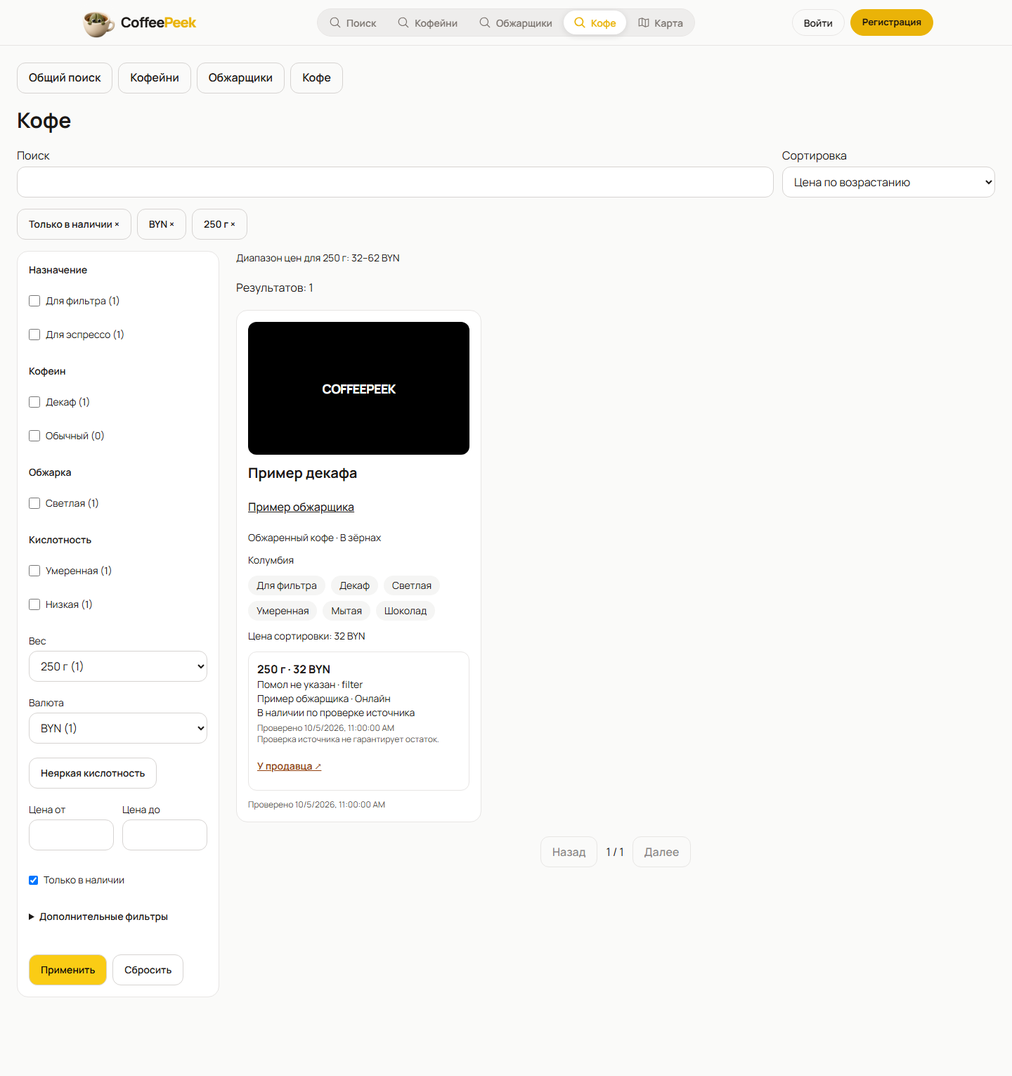
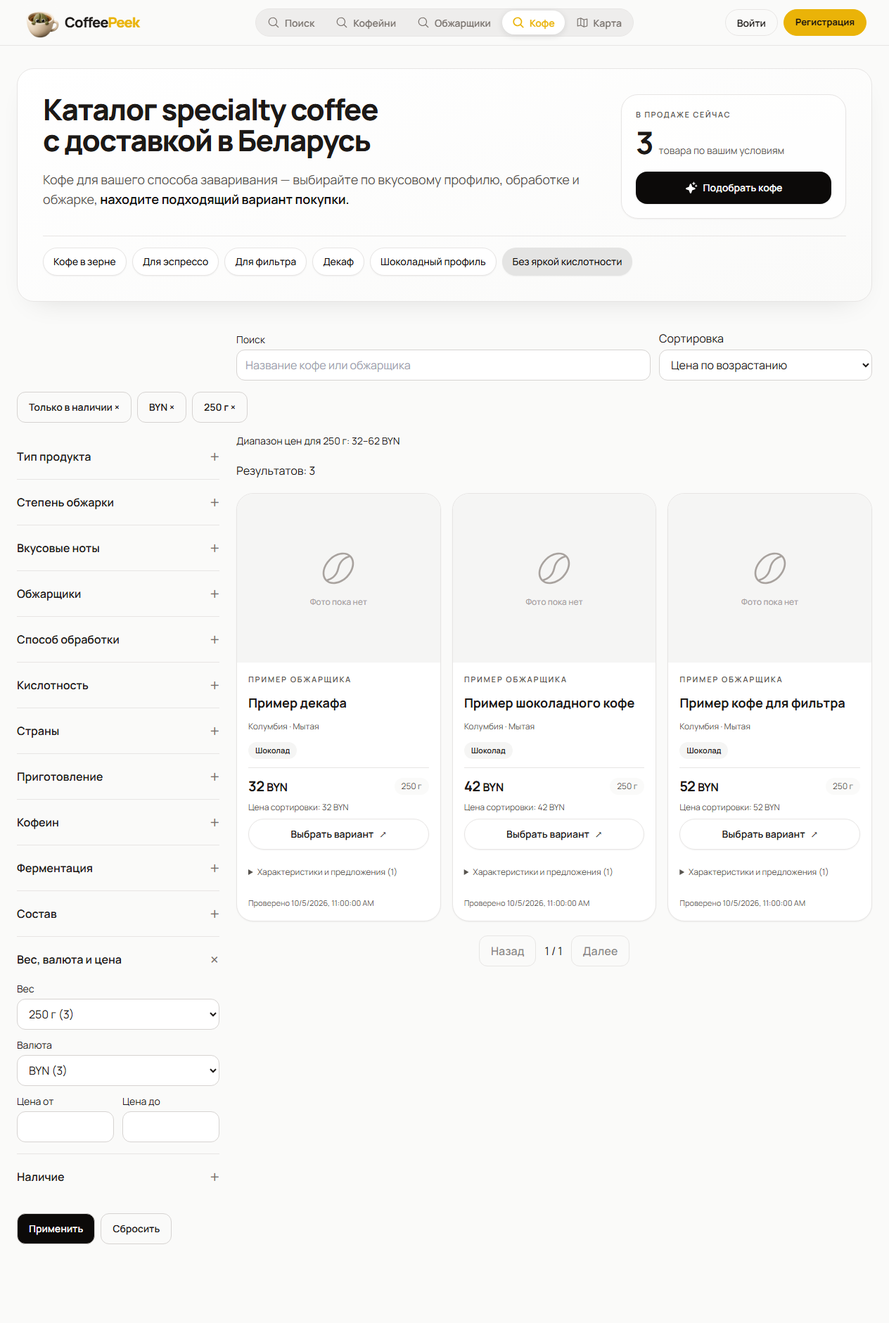
feat: refresh coffee catalog design and verify live discovery

diff --git a/coffee-peek/src/pages/CatalogSearchPage.tsx b/coffee-peek/src/pages/CatalogSearchPage.tsx
@@ -9,6 +9,7 @@ import { useUser } from '../contexts/UserContext';
 import { useRequireAuth } from '../hooks/useRequireAuth';
 import { useTheme } from '../contexts/ThemeContext';
 import { usePageTitle } from '../hooks/usePageTitle';
+import { Sparkle } from '@phosphor-icons/react';
 import { CatalogFilters, FilterChips, activeFilterCount, catalogInput } from '../components/CatalogFilters';
 import ShopCatalogFilters from '../components/ShopCatalogFilters';
 import { CoffeeCatalogCard, RoasterCatalogCard, ShopCatalogCard, CatalogPagination, catalogButton, catalogPanel } from '../components/CatalogCards';
@@ -18,6 +19,28 @@ import { useLocalCity } from '../hooks/useLocalCity';
 
 const titles = { discovery: 'Поиск кофеен и обжарщиков', shops: 'Кофейни', roasters: 'Обжарщики', coffees: 'Кофе' };
 const sortLabels: Record<string, string> = { relevance: 'По релевантности', name_asc: 'По названию', distance_asc: 'По расстоянию', rating_desc: 'По рейтингу', available_coffees_desc: 'По доступному ассортименту', price_asc: 'Цена по возрастанию', price_desc: 'Цена по убыванию', newest: 'Новые товары' };
+function CoffeeCatalogHero({ filters, total, quickFilters, onChange, onOpen }: {
+  filters: Record<string, unknown>; total?: number; quickFilters: { label: string; field: string; values: string[] | string }[];
+  onChange: (filters: Record<string, unknown>) => void; onOpen: () => void;
+}) {
+  const countLabel = ({ one: 'товар', few: 'товара', many: 'товаров', other: 'товара' } as Record<string, string>)[new Intl.PluralRules('ru').select(total ?? 0)];
+  return <section className="mb-10 rounded-3xl border border-stone-200 bg-gradient-to-br from-white to-stone-50 p-5 shadow-[0_16px_40px_-24px_rgba(0,0,0,0.16)] sm:p-8 lg:p-9 dark:border-[#3D2F28] dark:from-[#2D241F] dark:to-[#241C17]">
+    <div className="grid gap-5 sm:gap-7 lg:grid-cols-[minmax(0,1fr)_320px] lg:gap-10">
+      <div><h1 className="max-w-3xl text-[28px] font-extrabold leading-[1.04] tracking-[-0.035em] sm:text-[42px] xl:text-[46px]">Каталог specialty coffee<br className="hidden sm:block" /> с доставкой в Беларусь</h1>
+        <p className="mt-3 max-w-3xl text-sm leading-relaxed text-stone-600 sm:mt-5 sm:text-lg dark:text-stone-300">Кофе для вашего способа заваривания — выбирайте по вкусовому профилю, обработке и обжарке, <strong className="font-semibold text-stone-950 dark:text-white">находите подходящий вариант покупки.</strong></p></div>
+      <div className="self-start rounded-3xl border border-stone-200 bg-white/70 p-4 shadow-sm sm:p-5 dark:border-[#4A3D35] dark:bg-[#1A1412]/40">
+        <p className="text-[11px] font-semibold uppercase tracking-[0.14em] text-stone-600 dark:text-stone-300">{filters.availableOnly === false ? 'В каталоге сейчас' : 'В продаже сейчас'}</p>
+        <p className="mt-2 flex items-baseline gap-2"><span className="text-[36px] font-bold leading-none tracking-tight sm:text-[44px]" aria-live="polite">{total?.toLocaleString() ?? '—'}</span><span className="text-xs text-stone-600 sm:text-sm dark:text-stone-300">{countLabel} по вашим условиям</span></p>
+        <button type="button" onClick={onOpen} className="mt-3 flex min-h-11 w-full items-center justify-center gap-2 rounded-2xl bg-stone-950 px-4 py-3 text-sm font-semibold text-white shadow-sm hover:bg-stone-800 focus-visible:outline-none focus-visible:ring-2 focus-visible:ring-yellow-500 focus-visible:ring-offset-2 sm:mt-5 dark:bg-white dark:text-stone-950 dark:hover:bg-stone-200"><Sparkle size={18} weight="fill" aria-hidden="true" />Подобрать кофе</button>
+      </div>
+    </div>
+    <div className="mt-6 flex flex-wrap gap-2 border-t border-stone-200 pt-4 dark:border-[#3D2F28]">{quickFilters.map(preset => {
+      const current = filters[preset.field];
+      const selected = Array.isArray(preset.values) ? Array.isArray(current) && preset.values.length === current.length && preset.values.every(value => current.includes(value)) : current === preset.values;
+      return <button key={preset.label} type="button" aria-pressed={selected} onClick={() => onChange({ ...filters, [preset.field]: selected ? undefined : preset.values })} className={`min-h-10 rounded-full border px-3.5 py-2 text-xs shadow-sm transition-colors focus-visible:outline-none focus-visible:ring-2 focus-visible:ring-yellow-500 sm:text-sm ${selected ? 'border-stone-950 bg-stone-950 text-white dark:border-white dark:bg-white dark:text-stone-950' : 'border-stone-200 bg-white text-stone-950 hover:bg-stone-100 dark:border-[#4A3D35] dark:bg-[#2D241F] dark:text-white dark:hover:bg-[#1A1412]'}`}>{preset.label}</button>;
+    })}</div>
+  </section>;
+}
 export default function CatalogSearchPage({ kind }: { kind: CatalogKind }) {
   const [params, setParams] = useSearchParams();
   const navigate = useNavigate();
@@ -40,6 +63,7 @@ export default function CatalogSearchPage({ kind }: { kind: CatalogKind }) {
   const state = parsed.state;
   const [input, setInput] = useState(state.q);
   const dialog = useRef<HTMLDialogElement>(null);
+  const desktopFilters = useRef<HTMLElement>(null);
   const [mobileOpen, setMobileOpen] = useState(false);
   usePageTitle(titles[kind]);
   useEffect(() => { setInput(state.q); }, [state.q]);
@@ -88,22 +112,34 @@ export default function CatalogSearchPage({ kind }: { kind: CatalogKind }) {
   const filterForm = () => kind === 'shops' ? <ShopCatalogFilters filters={state.filters as ShopFilters} onApply={apply} /> : <CatalogFilters kind={kind} filters={state.filters} groups={groups} tags={tags.data} errors={errors} onApply={apply} />;
   const reset = () => update(applyCriteria(state, { filters: kind === 'coffees' ? { availableOnly: true } : {}, q: '', sort: 'name_asc' }));
   const availableSorts = kind === 'discovery' ? ['name_asc', 'relevance'] : kind === 'shops' ? ['name_asc', 'relevance', 'distance_asc', 'rating_desc'] : kind === 'roasters' ? ['name_asc', 'relevance', 'available_coffees_desc'] : ['name_asc', 'relevance', 'price_asc', 'price_desc', 'newest'];
-  const cards = (items: (CoffeeCard | RoasterCard | ShopCard)[], section: CatalogKind) => <div className="grid grid-cols-1 gap-4 md:grid-cols-2 xl:grid-cols-3">{items.map(item => section === 'coffees' ? <CoffeeCatalogCard key={item.address.slug} coffee={item as CoffeeCard} groups={dictionary.data ?? []} />
+  const cards = (items: (CoffeeCard | RoasterCard | ShopCard)[], section: CatalogKind) => <div className={`grid grid-cols-1 gap-4 md:grid-cols-2 ${section === 'coffees' ? 'min-[1180px]:grid-cols-3' : 'xl:grid-cols-3'}`}>{items.map(item => section === 'coffees' ? <CoffeeCatalogCard key={item.address.slug} coffee={item as CoffeeCard} groups={dictionary.data ?? []} />
     : section === 'roasters' ? <RoasterCatalogCard key={item.address.slug} roaster={item as RoasterCard} groups={dictionary.data ?? []} /> : <ShopCatalogCard key={item.address.slug} shop={item as ShopCard} />)}</div>;
   const rawPage = query.data && 'items' in query.data ? query.data : undefined;
   const hidden = pendingFavorites.filter(change => !change.favorite && change.kind === (kind === 'shops' ? 'coffee_shop' : 'roaster') && favorites.isFavorite(change.kind as 'coffee_shop' | 'roaster', change.address.slug, true) === false);
   const page = rawPage && state.filters.favoritesOnly && hidden.length ? { ...rawPage, items: rawPage.items.filter(item => !hidden.some(change => change.address.slug === item.address.slug)), totalItems: Math.max(0, rawPage.totalItems - hidden.length) } : rawPage;
   const discovery = query.data && 'coffeeShops' in query.data ? query.data : undefined;
-  return <main className={`mx-auto max-w-[1600px] px-4 py-6 pb-28 sm:px-6 ${theme === 'dark' ? 'text-white' : 'text-stone-900'}`}>
-    <nav className="mb-5 flex flex-wrap gap-2" aria-label="Каталоги">{[['/search', 'Общий поиск'], ['/shops', 'Кофейни'], ['/roasters', 'Обжарщики'], ['/coffees', 'Кофе']].map(([path, name]) => <Link key={path} className={catalogButton} to={path}>{name}</Link>)}{kind === 'shops' && <Link className={catalogButton} to="/dashboard?page=map">Карта</Link>}</nav>
-    <h1 className="mb-5 text-3xl font-bold">{titles[kind]}</h1>
-    <div className="mb-4 flex flex-wrap items-end gap-3"><label className="min-w-0 flex-1">Поиск<input type="search" className={catalogInput} value={input} maxLength={100} onChange={event => setInput(event.target.value)} /></label>
+  const openFilters = () => {
+    if (window.matchMedia('(min-width: 1024px)').matches) { desktopFilters.current?.scrollIntoView({ behavior: 'smooth', block: 'start' }); desktopFilters.current?.querySelector<HTMLElement>('summary, input')?.focus({ preventScroll: true }); }
+    else { setMobileOpen(true); dialog.current?.showModal(); }
+  };
+  const quickFilters = [
+    { label: 'Кофе в зерне', field: 'productForm', values: 'whole_beans' }, { label: 'Для эспрессо', field: 'brew', values: ['espresso'] },
+    { label: 'Для фильтра', field: 'brew', values: ['filter'] }, { label: 'Декаф', field: 'caffeine', values: ['decaf'] },
+    { label: 'Шоколадный профиль', field: 'taste', values: ['chocolate'] }, { label: 'Ягодные лоты', field: 'taste', values: ['berry'] },
+    { label: 'Без яркой кислотности', field: 'acidity', values: ['low', 'balanced'] },
+  ].filter(preset => typeof preset.values === 'string' || preset.values.every(value => dictionary.data?.find(group => group.code === preset.field)?.values.some(option => option.code === value)));
+  return <main className={`mx-auto ${kind === 'coffees' ? 'max-w-[1320px] py-8' : 'max-w-[1600px] py-6'} px-4 pb-28 sm:px-6 ${theme === 'dark' ? 'text-white' : 'text-stone-900'}`}>
+    {kind === 'coffees' ? <CoffeeCatalogHero filters={state.filters} total={page?.totalItems} quickFilters={quickFilters} onChange={filters => update(applyCriteria(state, { filters }))} onOpen={openFilters} /> : <>
+      <nav className="mb-5 flex flex-wrap gap-2" aria-label="Каталоги">{[['/search', 'Общий поиск'], ['/shops', 'Кофейни'], ['/roasters', 'Обжарщики'], ['/coffees', 'Кофе']].map(([path, name]) => <Link key={path} className={catalogButton} to={path}>{name}</Link>)}{kind === 'shops' && <Link className={catalogButton} to="/dashboard?page=map">Карта</Link>}</nav>
+      <h1 className="mb-5 text-3xl font-bold">{titles[kind]}</h1>
+    </>}
+    <div className={`mb-4 flex flex-wrap items-end gap-3 ${kind === 'coffees' ? 'lg:ml-[312px]' : ''}`}><label className="min-w-0 flex-1 text-sm">Поиск<input type="search" className={catalogInput} placeholder={kind === 'coffees' ? 'Название кофе или обжарщика' : undefined} value={input} maxLength={100} onChange={event => setInput(event.target.value)} /></label>
       <button type="button" className={`${catalogButton} lg:hidden`} onClick={() => { setMobileOpen(true); dialog.current?.showModal(); }}>Фильтры ({activeFilterCount(state.filters)})</button>
       <label>Сортировка<select className={catalogInput} value={state.sort} onChange={event => update(applyCriteria(state, { sort: event.target.value }))}>{availableSorts.map(sort => <option key={sort} value={sort} disabled={sort === 'relevance' && !state.q || sort.startsWith('price_') && !canSortByPrice(state.filters as CoffeeFilters) || sort === 'distance_asc' && !state.filters.origin}>{sortLabels[sort]}</option>)}</select></label>
     </div>
     {kind === 'coffees' && !canSortByPrice(state.filters as CoffeeFilters) && <p className="text-sm">Для сортировки по цене выберите валюту и вес пачки.</p>}
     <FilterChips filters={state.filters} groups={groups} onChange={filters => update(applyCriteria(state, { filters }))} />
-    <div className="flex items-start gap-6"><aside className={`${catalogPanel} hidden w-72 shrink-0 lg:block`}>{filterForm()}</aside><div className="min-w-0 flex-1 space-y-5">
+    <div className="flex items-start gap-6"><aside ref={desktopFilters} className={`${kind === 'coffees' ? 'scroll-mt-28' : catalogPanel} hidden w-72 shrink-0 lg:block`}>{filterForm()}</aside><div className="min-w-0 flex-1 space-y-5">
       {parsed.error && <p role="alert">{parsed.error} <button className={catalogButton} onClick={reset}>Сбросить</button></p>}
       {!!Object.keys(errors).length && <div role="alert" className="space-y-2 text-red-700 dark:text-red-300">{Object.entries(errors).map(([key, value]) => <p key={key}>{key}: {value}</p>)}</div>}
       {!user && personal && <div className={catalogPanel}><p>Войдите, чтобы использовать личные фильтры.</p><button className={catalogButton} onClick={requireAuth}>Войти</button></div>}

diff --git a/coffee-peek/src/components/CatalogCards.tsx b/coffee-peek/src/components/CatalogCards.tsx
@@ -1,4 +1,5 @@
 import { Link } from 'react-router-dom';
+import { CoffeeBean } from '@phosphor-icons/react';
 import type { CoffeeCard as Coffee, CoffeeOffer, RoasterCard as Roaster, ShopCard as Shop, Photo, FilterGroup, Classification } from '../api/discovery';
 import type { PublicAddress } from '../api/publicAddresses';
 import { useFavorite } from '../hooks/useFavorites';
@@ -46,16 +47,36 @@ export function OfferList({ offers, defaults = [] }: { offers: CoffeeOffer[]; de
   })}</ul>;
 }
 export function CoffeeCatalogCard({ coffee, groups }: { coffee: Coffee; groups: FilterGroup[] }) {
-  return <article className={`${catalogPanel} space-y-3`}>
-    <Link to={coffee.address.canonicalPath}><CatalogPhoto photo={coffee.coverPhoto} name={coffee.name} /><h3 className="mt-3 text-xl font-bold">{coffee.name}</h3></Link>
-    <Link className="inline-flex min-h-11 items-center underline" to={coffee.roaster.address.canonicalPath}>{coffee.roaster.name}</Link>
-    <p className="text-sm">{coffee.productKind === 'green_beans' ? 'Зелёный кофе' : 'Обжаренный кофе'} · {coffee.productForm === 'ground_only' ? 'Молотый' : 'В зёрнах'}</p>
-    <p className="text-sm">{coffee.countries.map(country => country.nameRu).join(', ') || 'Происхождение не подтверждено'}</p>
-    <ClassificationBadges value={coffee.classification} groups={groups} />
-    {coffee.sortPrice !== null && <p className="text-sm">Цена сортировки: {coffee.sortPrice.toLocaleString()} {coffee.matchingOffers[0]?.currency}</p>}
-    <OfferList offers={coffee.matchingOffers} defaults={coffee.classification.defaultBrewPurposes} />
-    {!coffee.matchingOffers.length && <p>Подходящих предложений нет.</p>}
-    <p className="text-xs text-stone-600 dark:text-stone-300">{checkedTime(coffee.catalogCheckedAtUtc)}</p>
+  const label = (group: string, value: string) => groups.find(item => item.code === group)?.values.find(item => item.code === value)?.name ?? value;
+  const prices = new Map<string, { currency: string; weight: number | null; min: number; max: number }>();
+  for (const offer of coffee.matchingOffers) {
+    const key = `${offer.currency}:${offer.weightGrams}`;
+    const previous = prices.get(key);
+    prices.set(key, { currency: offer.currency, weight: offer.weightGrams, min: Math.min(previous?.min ?? offer.price, offer.price), max: Math.max(previous?.max ?? offer.price, offer.price) });
+  }
+  const profile = [...coffee.countries.map(country => country.nameRu), ...coffee.classification.processing.map(value => label('processing', value)), ...coffee.classification.fermentation.map(value => label('fermentation', value))];
+  const tastes = coffee.classification.tasteGroups.map(value => label('taste', value));
+  return <article className="flex h-full flex-col overflow-hidden rounded-3xl border border-stone-200 bg-white shadow-sm transition-shadow hover:shadow-md dark:border-[#3D2F28] dark:bg-[#2D241F]">
+    <Link to={coffee.address.canonicalPath} className="block aspect-[6/5] bg-stone-100 p-3 focus-visible:outline-none focus-visible:ring-2 focus-visible:ring-inset focus-visible:ring-yellow-500 dark:bg-[#241C17]">
+      {coffee.coverPhoto ? <img src={coffee.coverPhoto.urls?.card || coffee.coverPhoto.fullUrl} alt={coffee.name} loading="lazy" className="h-full w-full object-contain" /> : <div className="flex h-full flex-col items-center justify-center gap-3 text-stone-400 dark:text-stone-500"><CoffeeBean size={56} weight="light" aria-hidden="true" /><span className="text-xs">Фото пока нет</span></div>}
+    </Link>
+    <div className="flex flex-1 flex-col gap-3 p-4">
+      <Link className="text-[11px] font-semibold uppercase tracking-[0.16em] text-stone-600 hover:underline dark:text-stone-300" to={coffee.roaster.address.canonicalPath}>{coffee.roaster.name}</Link>
+      <Link className="hover:underline" to={coffee.address.canonicalPath}><h3 className="text-lg font-bold leading-snug">{coffee.name}</h3></Link>
+      <p className="text-xs leading-relaxed text-stone-600 dark:text-stone-300">{profile.join(' · ') || 'Происхождение и обработка не подтверждены'}</p>
+      {!!tastes.length && <div className="flex flex-wrap gap-1.5">{tastes.slice(0, 3).map(taste => <span key={taste} className="rounded-full bg-stone-100 px-2.5 py-1 text-[11px] font-semibold dark:bg-[#1A1412]">{taste}</span>)}{tastes.length > 3 && <span title={tastes.slice(3).join(', ')} className="rounded-full border border-stone-200 px-2 py-1 text-[11px] dark:border-[#4A3D35]">+{tastes.length - 3}<span className="sr-only">: {tastes.slice(3).join(', ')}</span></span>}</div>}
+      <div className="mt-auto space-y-2 border-t border-stone-200 pt-3 dark:border-[#3D2F28]">
+        {[...prices.entries()].map(([key, price]) => <div key={key} className="flex items-center justify-between gap-2">
+          <p className="text-xl font-bold tracking-tight">{price.min < price.max ? 'от ' : ''}{price.min.toLocaleString()} <span className="text-base">{price.currency}</span></p>
+          <span className="rounded-full bg-stone-50 px-2.5 py-1 text-xs text-stone-600 dark:bg-[#1A1412] dark:text-stone-300">{price.weight === null ? 'Вес не указан' : `${price.weight} г`}</span>
+        </div>)}
+        {coffee.sortPrice !== null && <p className="text-xs text-stone-600 dark:text-stone-300">Цена сортировки: {coffee.sortPrice.toLocaleString()} {coffee.matchingOffers[0]?.currency}</p>}
+        {!coffee.matchingOffers.length && <p className="text-sm">Подходящих предложений нет.</p>}
+        <Link className="flex min-h-11 items-center justify-center gap-2 rounded-full border border-stone-200 text-sm font-semibold shadow-sm hover:bg-stone-50 focus-visible:outline-none focus-visible:ring-2 focus-visible:ring-yellow-500 dark:border-[#4A3D35] dark:hover:bg-[#1A1412]" to={coffee.address.canonicalPath}>Выбрать вариант <span aria-hidden="true">↗</span></Link>
+      </div>
+      <details className="text-xs text-stone-600 dark:text-stone-300"><summary className="min-h-11 cursor-pointer py-3">Характеристики и предложения ({coffee.matchingOffers.length})</summary><div className="space-y-3 pb-2"><p>{coffee.productKind === 'green_beans' ? 'Зелёный кофе' : 'Обжаренный кофе'} · {coffee.productForm === 'ground_only' ? 'Молотый' : 'В зёрнах'}</p><ClassificationBadges value={coffee.classification} groups={groups} /><OfferList offers={coffee.matchingOffers} defaults={coffee.classification.defaultBrewPurposes} /></div></details>
+      <p className="text-[11px] text-stone-600 dark:text-stone-300">{checkedTime(coffee.catalogCheckedAtUtc)}</p>
+    </div>
   </article>;
 }
 export function RoasterCatalogCard({ roaster, groups }: { roaster: Roaster; groups: FilterGroup[] }) {

diff --git a/coffee-peek/src/components/CatalogFilters.tsx b/coffee-peek/src/components/CatalogFilters.tsx
@@ -77,8 +77,26 @@ export function CatalogFilters({ kind, filters, groups = [], tags = [], errors =
   const budgetFields = (prefix: string) => <div className="grid grid-cols-1 gap-3 sm:grid-cols-2">
     {numberField(`${prefix}minPrice`, 'Цена от')}{numberField(`${prefix}maxPrice`, 'Цена до')}
   </div>;
+  const coffeeSections = [
+    { name: 'Тип продукта', codes: ['productKind', 'productForm'] }, { name: 'Степень обжарки', codes: ['roast'] },
+    { name: 'Вкусовые ноты', codes: ['taste'] }, { name: 'Обжарщики', codes: ['roasters'] },
+    { name: 'Способ обработки', codes: ['processing'] }, { name: 'Кислотность', codes: ['acidity'] },
+    { name: 'Страны', codes: ['countries'] }, { name: 'Приготовление', codes: ['brew'] },
+    { name: 'Кофеин', codes: ['caffeine'] }, { name: 'Ферментация', codes: ['fermentation'] },
+    { name: 'Состав', codes: ['composition'] }, { name: 'Вес, валюта и цена', codes: ['weightGrams', 'currency'] },
+    { name: 'Наличие', codes: ['availabilityScope'] },
+  ];
   return <form onSubmit={form.handleSubmit(values => onApply(normalizeFilters(values.filters)))} className="space-y-5 text-sm">
-    {kind === 'discovery' ? <>
+    {kind === 'coffees' ? <div className="divide-y divide-stone-200 dark:divide-[#3D2F28]">
+      {coffeeSections.map(section => <details key={section.name} className="group" open={section.codes.some(code => get(code) != null) || undefined}>
+        <summary className="flex min-h-14 cursor-pointer list-none items-center justify-between gap-3 py-4 text-base font-semibold focus-visible:outline-none focus-visible:ring-2 focus-visible:ring-yellow-500 [&::-webkit-details-marker]:hidden">{section.name}<span aria-hidden="true" className="text-2xl font-light text-stone-500 group-open:rotate-45">+</span></summary>
+        <div className="space-y-3 pb-4 [&_legend]:sr-only">{section.codes.map(code => { const group = groups.find(group => group.code === code); return group ? groupControl(group) : null; })}
+          {section.codes.includes('acidity') && <button type="button" className={catalogButton} onClick={() => put('acidity', ['low', 'balanced'])}>Неяркая кислотность</button>}
+          {section.codes.includes('currency') && budgetFields('')}
+          {section.codes.includes('availabilityScope') && <label className="flex min-h-11 items-center gap-2"><input type="checkbox" checked={get('availableOnly') !== false} onChange={event => put('availableOnly', event.target.checked)} />Только в наличии</label>}
+        </div>
+      </details>)}
+    </div> : kind === 'discovery' ? <>
       <fieldset><legend className="font-semibold">Приготовление</legend>{[{ code: 'espresso', name: 'Эспрессо' }, { code: 'filter', name: 'Фильтр' }].map(option => <label key={option.code} className="flex min-h-11 items-center gap-2"><input type="checkbox" checked={(get('brew') as string[] ?? []).includes(option.code)} onChange={event => put('brew', event.target.checked ? [...(get('brew') as string[] ?? []), option.code] : (get('brew') as string[]).filter(value => value !== option.code))} />{option.name}</label>)}</fieldset>
       {selectField('budget.currency', 'Валюта бюджета', [{ code: 'BYN', name: 'BYN' }, { code: 'RUB', name: 'RUB' }])}
       <fieldset className="space-y-3"><legend className="mb-2 font-semibold">Цена напитка</legend>{numberField('budget.minDrinkPrice', 'Напиток: цена от')}{numberField('budget.maxDrinkPrice', 'Напиток: цена до')}{numberField('budget.drinkVolumeMl', 'Объём напитка, мл', 5000)}</fieldset>
@@ -96,7 +114,7 @@ export function CatalogFilters({ kind, filters, groups = [], tags = [], errors =
       <label className="flex min-h-11 items-center gap-2"><input type="checkbox" checked={get(`${coffeePrefix}availableOnly`) !== false} onChange={event => put(`${coffeePrefix}availableOnly`, event.target.checked)} />Только в наличии</label>
       <details><summary className="min-h-11 cursor-pointer font-semibold">Дополнительные фильтры</summary><div className="space-y-4">{coffeeGroups.filter(group => !primary.has(group.code.replace(/^coffee\./, ''))).map(groupControl)}</div></details>
     </>}
-    <div className="flex flex-wrap gap-2"><button type="submit" className={`${catalogButton} bg-yellow-400 text-stone-950`}>Применить</button><button type="button" className={catalogButton} onClick={() => form.reset({ filters: kind === 'coffees' ? { availableOnly: true } : {} })}>Сбросить</button></div>
+    <div className="flex flex-wrap gap-2"><button type="submit" className={`${catalogButton} ${kind === 'coffees' ? 'bg-stone-950 text-white dark:bg-white dark:text-stone-950' : 'bg-yellow-400 text-stone-950'}`}>Применить</button><button type="button" className={catalogButton} onClick={() => form.reset({ filters: kind === 'coffees' ? { availableOnly: true } : {} })}>Сбросить</button></div>
     {form.formState.errors.filters?.message && <p role="alert">{String(form.formState.errors.filters.message)}</p>}
   </form>;
 }

diff --git a/coffee-peek/tests/catalogCards.test.ts b/coffee-peek/tests/catalogCards.test.ts
@@ -15,3 +15,10 @@ test('all detail offers keep currencies separate, unknown weight/stock and safe 
   const html = renderToStaticMarkup(React.createElement(OfferList, { offers: [offer, { ...offer, offerKey: 'rub', currency: 'RUB', price: 600, weightGrams: null, availability: 'Unknown', sourceUrl: 'javascript:alert(1)' }] }));
   expect(html).toContain('32 BYN'); expect(html).toContain('600 RUB'); expect(html).toContain('Вес не указан'); expect(html).toContain('Наличие не подтверждено'); expect(html).not.toContain('javascript:'); expect(html).toContain('noopener noreferrer');
 });
+
+test('compact prices group matching offers by exact weight and currency', () => {
+  const coffee = { address: { slug: 'coffee', canonicalPath: '/coffees/coffee', revision: 1 }, name: 'Coffee', roaster: { name: 'Roaster', address: { slug: 'roaster', canonicalPath: '/roasters/roaster', revision: 1 }, coverPhoto: null }, productKind: 'roasted_beans', productForm: 'whole_beans', classification: { defaultBrewPurposes: [], caffeine: null, roastLevel: null, acidity: null, processing: [], fermentation: [], tasteGroups: [], composition: null }, countries: [], coverPhoto: null, matchingOffers: [offer, { ...offer, offerKey: '250-expensive', price: 40 }, { ...offer, offerKey: '100', weightGrams: 100, price: 10 }, { ...offer, offerKey: 'rub', currency: 'RUB', price: 600 }], sortPrice: null, createdAtUtc: offer.checkedAtUtc, catalogCheckedAtUtc: null };
+  const html = renderToStaticMarkup(React.createElement(MemoryRouter, {}, React.createElement(CoffeeCatalogCard, { coffee: coffee as CoffeeCard, groups: [] })));
+  expect(html).toContain('от 32'); expect(html).toContain('250 г'); expect(html).toContain('100 г'); expect(html).toContain('600'); expect(html).toContain('RUB');
+  expect(html).not.toContain('от 10');
+});

diff --git a/coffee-peek/vite.config.ts b/coffee-peek/vite.config.ts
@@ -1,13 +1,25 @@
 import path from "path";
-import { defineConfig } from "vite";
+import { defineConfig, loadEnv } from "vite";
 import react from "@vitejs/plugin-react";
 
-export default defineConfig(() => {
+export default defineConfig(({ mode }) => {
+  const apiTarget = loadEnv(mode, process.cwd(), '').VITE_API_URL?.trim();
   return {
     server: {
       port: parseInt(process.env.PORT || "5173"),
       strictPort: true,
       host: "0.0.0.0",
+      proxy: apiTarget && /^https?:\/\//.test(apiTarget) ? {
+        '/backend': {
+          target: apiTarget,
+          changeOrigin: true,
+          secure: true,
+          ws: true,
+          rewrite: requestPath => requestPath.replace(/^\/backend/, ''),
+          cookieDomainRewrite: '',
+          cookiePathRewrite: '/',
+        },
+      } : undefined,
     },
     plugins: [react()],
     optimizeDeps: {

diff --git a/coffee-peek/src/api/core/apiConfig.ts b/coffee-peek/src/api/core/apiConfig.ts
@@ -1,4 +1,4 @@
-export const API_BASE_URL = import.meta.env.VITE_API_URL;
+export const API_BASE_URL = import.meta.env.DEV ? '/backend' : import.meta.env.VITE_API_URL;
 
 /**
  * Все эндпоинты API

diff --git a/docs/DISCOVERY-VERIFICATION.md b/docs/DISCOVERY-VERIFICATION.md
@@ -1,22 +1,29 @@
 # Discovery and coffee catalog verification — 2026-10-06
 
-Contracts: OpenAPI 3.1 supplied in this task, plus [backend PR #334](https://github.com/CoffeePeek/coffeepeek-backend/pull/334) at `8a8bc274213404612e446fb46ae55fd45b8fa8a6` (`codex/coffee-catalog-daily-import`). Admin content/status/public-address/import DTOs were checked against its controllers and `CoffeeCatalogDtos.cs`.
+Contracts: OpenAPI 3.1 supplied in this task, plus [backend PR #334](https://github.com/CoffeePeek/coffeepeek-backend/pull/334). Initially checked at `8a8bc274213404612e446fb46ae55fd45b8fa8a6`; after deployment, rechecked at merged PR head `09e383e890f3596942f44176d33be09f9511da41` (merge commit `ebbc0434e7cdc1d82a3b208b939b5a90f9c35e0c`). Admin content/status/public-address/import DTOs were checked against its controllers and DTOs. The API does not expose its deployed commit, so these identify the reviewed contract rather than independently prove the deployed binary revision.
 
 ## Live API
 
-Read-only availability probes against `https://api.coffeepeek.by`:
+After the deployment, read-only checks against `https://api.coffeepeek.by` pass. The earlier 404 availability result is superseded:
 
 | Request | Result |
 | --- | --- |
-| GET `/api/v1/catalogs/coffee-filter-values` | 404 |
-| POST `/api/v1/discovery/search` | 404 |
-| POST `/api/v1/coffee-shops/search` | 404 |
-| POST `/api/v1/roasters/search` | 404 |
-| POST `/api/v1/coffees/search` | 404 |
-| POST `/api/v1/coffees/facets` | 404 |
-| POST `/api/v1/roasters/facets` | 404 |
+| GET `/api/v1/catalogs/coffee-filter-values` | 200; all 8 groups |
+| GET `/api/v1/catalogs/roaster-tags` | 200 |
+| POST `/api/v1/discovery/search` | 200; independent pages and null unselected section |
+| POST `/api/v1/coffee-shops/search` | 200; 139 shops with city=minsk |
+| POST `/api/v1/roasters/search` | 200; 20 roasters |
+| POST `/api/v1/coffees/search` | 200; 0 published coffee, including availableOnly=false |
+| POST `/api/v1/coffees/facets` | 200; selected zero-count values preserved |
+| POST `/api/v1/roasters/facets` | 200; service AND and coffee.* groups |
+| GET `/api/v1/favorites`, admin dictionaries/coffees/import runs without JWT | 401 |
+| GET non-existent v1 coffee detail | 404 NOT_FOUND |
 
-POST bodies were `{}` without JWT. These establish availability only. No live admin writes or authenticated integration checks were performed. Full integration requires backend deployment and a test account. Mock checks do not verify backend matching/counting/normalization or database persistence across devices.
+`npm run test:discovery-live` inside admin performs 37 real API checks and a customer browser smoke (15 real v1 responses in the recorded run). It verifies scopes, wrong-group/unknown values, invalid price/currency/weight/range, empty relevance, missing geo origin, forbidden nested roasters, overlapping tags/excludeTags, independent budgets/pages and JWT requirements. API responses are not mocked. The browser verifies discovery/roasters/coffee, mobile filters and reload, 375 px width and light/dark themes.
+
+No published coffee is currently available: positive offer/detail/price-ordering and same-product AND scenarios therefore remain on the explicit mock. No live admin writes or authenticated favorites/admin integration checks were performed; those require a test account. Database persistence across devices is not established by mock checks.
+
+Production CORS allows `https://coffeepeek.by`, while localhost preflights omit allow-origin. Customer development now uses the same `/backend` Vite proxy pattern as admin, forwarding to the absolute `VITE_API_URL` and rewriting refresh-cookie domain/path. Production still calls its configured API URL. For reproduction, start customer with `VITE_API_URL=https://api.coffeepeek.by`; use `COFFEE_CUSTOMER_ORIGIN` when its port differs from 5173. Generated live check details are in ignored `test-results/coffee-catalog/live-verification.json`.
 
 ## Local checks
 
@@ -47,6 +54,12 @@ Map routes/API calls remain available. Map tiles and permission denial were not 
 
 Admin coffee DTO exposes slug but no address revision read endpoint for Draft/Archived. Slug editing uses public v1 detail `address.revision` after publication and sends `expectedRevision`; it does not guess unpublished revision. A missing address is initialized with revision 0. The editor explains this limitation. Backend admin metadata reading is needed to rename an existing unpublished address safely.
 
+## Customer design
+
+The two supplied references are applied to `/coffees`: a spacious hero and count panel, pill presets, native sidebar accordions, three-column desktop cards, restrained borders/shadows, compact taste labels and exact-weight/currency prices. Mobile retains the draft/apply dialog and keyboard focus behavior. The count is the server product total for current criteria; cards show only matchingOffers and keep other offers on detail pages.
+
+The current public DTO has no Q score, body, archive total, drip/limited-edition filter or coffee favorite kind. Those reference elements are not simulated with invented data or inert controls. Supported filters stay available; the card action opens real purchase variants. No dependencies were added.
+
 ## Screenshots (mock data)
 
 | Customer | Admin |
@@ -55,4 +68,6 @@ Admin coffee DTO exposes slug but no address revision read endpoint for Draft/Ar
 | [Mobile, light](screenshots/discovery/customer-mobile-light.png) | [Mobile, light](screenshots/discovery/admin-mobile.png) |
 | [Mobile, dark](screenshots/discovery/customer-mobile-dark.png) | [Mobile, dark](screenshots/discovery/admin-mobile-dark.png) |
 
-Final result: customer 145 tests; admin 50 tests; customer SSR 13 tests. Both typechecks and production builds pass. Browser mock smoke passes (request count varies with refetches).
+Live screenshots: [desktop](screenshots/discovery/customer-live-desktop.png), [mobile light](screenshots/discovery/customer-live-mobile.png), [mobile dark](screenshots/discovery/customer-live-mobile-dark.png). The empty coffee catalog is real API data.
+
+Final result: customer 146 tests; admin 50 tests; customer SSR 13 tests. Both typechecks and production builds pass. Browser mock smoke and live discovery checks pass (request count varies with refetches).

diff --git a/coffee-peek-admin/docs/BACKEND-API-SPEC.md b/coffee-peek-admin/docs/BACKEND-API-SPEC.md
@@ -91,7 +91,7 @@ Published `Review.id` нужен для чтения отзыва и жалоб.
 
 ## Discovery / каталог кофе — PR #334
 
-Сверено с 8a8bc274213404612e446fb46ae55fd45b8fa8a6 и OpenAPI задачи. Типы/маршруты: src/api/coffeeCatalog.ts; результаты live/mock: ../../docs/DISCOVERY-VERIFICATION.md.
+Сверено с OpenAPI задачи и PR #334: первоначально 8a8bc274213404612e446fb46ae55fd45b8fa8a6, после деплоя — merged head 09e383e890f3596942f44176d33be09f9511da41. Live public search/facets теперь возвращают 200; admin и favorites без JWT — 401. Типы/маршруты: src/api/coffeeCatalog.ts; результаты live/mock: ../../docs/DISCOVERY-VERIFICATION.md.
 
 - /api/admin/roaster-tags и /api/admin/coffee-filter-values: GET всех значений, POST создания; /{id} PATCH и DELETE деактивации. Slug либо groupCode+code неизменяемы. Реактивация через PATCH isActive:true.
 - /api/admin/roasters/{id}/tags: GET назначений; PUT {tagIds: GUID[]} полностью заменяет их, возвращает 204. Неактивные теги нельзя назначать повторно.
